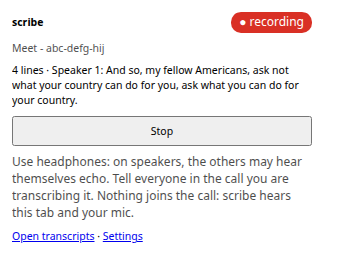
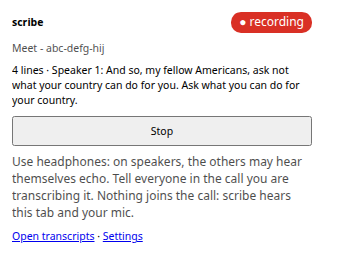
Extension e2e: compare words, not punctuation
Where the segmenter cuts changes the model's punctuation ("ask not. what ..."), which made the
phrase check flaky.

Changed region(s): [[0.5294, 0.3077, 0.8824, 0.3692]]

diff --git a/server/tests/test_extension.py b/server/tests/test_extension.py
@@ -28,6 +28,8 @@ from pathlib import Path
 import httpx
 import pytest
 
+from .wer import words
+
 pytestmark = pytest.mark.extension
 
 TOKEN = "extension-token"
@@ -228,6 +230,7 @@ def test_extension_transcribes_tab_and_mic(server, tmp_path):
     assert {line["speaker_name"] for line in by_speaker["mic"]} == {"Harry"}
     for speaker in ("tab", "mic"):
         text = " ".join(line["text"] for line in by_speaker[speaker]).lower()
-        assert PHRASE in text.replace(",", ""), f"{speaker}: {text}"
+        # Words only: punctuation varies with where an utterance was cut ("ask not. what ...").
+        assert " ".join(words(PHRASE)) in " ".join(words(text)), f"{speaker}: {text}"
         assert all(line["model_id"] == "parakeet-tdt-0.6b-v2" for line in by_speaker[speaker])
     (SHOTS / "transcript.json").write_text(json.dumps(got, indent=1))
